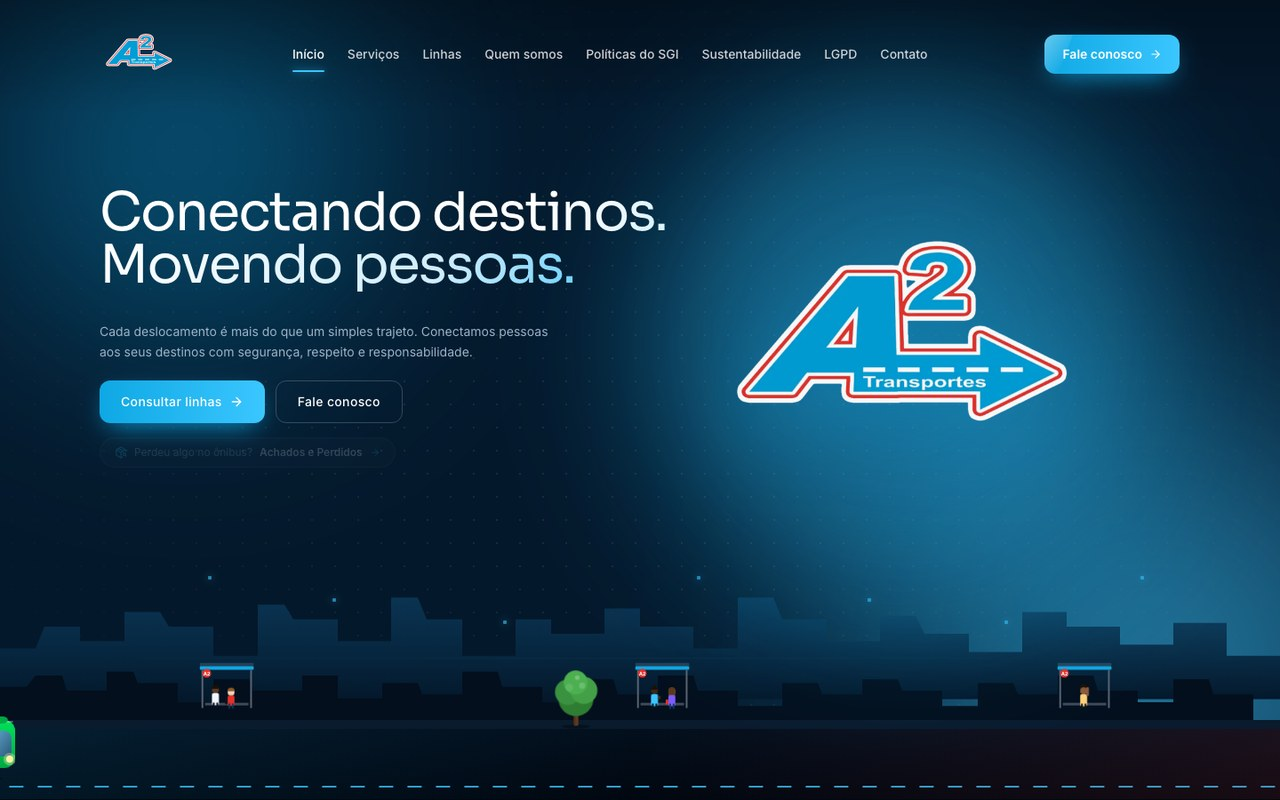
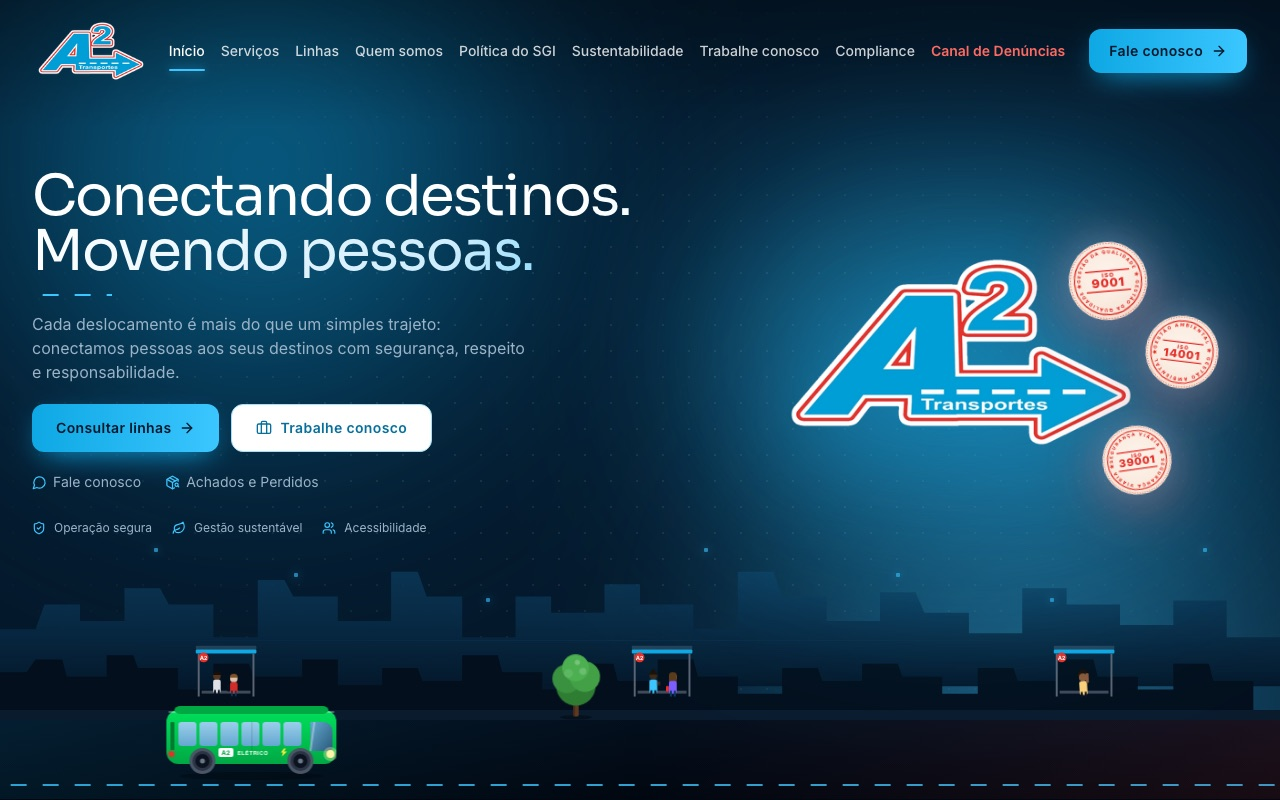
Portfolio: mockups novos da A2, JSR e Castro Alves; A2 aponta para a2transporte.com.br

diff --git a/index.html b/index.html
@@ -965,35 +965,6 @@
     [data-theme="light"] .proj-paper { box-shadow: 0 3px 14px rgba(0,0,0,.18); }
     [data-theme="light"] .proj-card:hover .proj-paper { box-shadow: 0 24px 44px rgba(0,0,0,.28); }
 
-    /* ANTES / DEPOIS — imagem antiga recortada por cima da nova, range invisível controla o corte */
-    .proj-card:hover .proj-paper.proj-ba { transform: none; }
-    .proj-ba img { position: absolute; inset: 0; -webkit-user-drag: none; user-select: none; }
-    .proj-ba .ba-antes { clip-path: inset(0 calc(100% - var(--pos)) 0 0); }
-    .ba-linha {
-      position: absolute; top: 0; bottom: 0; left: var(--pos); width: 2px;
-      transform: translateX(-1px); background: #fff; box-shadow: 0 0 10px rgba(0,0,0,.4);
-      pointer-events: none;
-    }
-    .ba-linha::after {
-      content: '‹ ›'; position: absolute; top: 50%; left: 50%; transform: translate(-50%, -50%);
-      width: 34px; height: 34px; border-radius: 50%; display: grid; place-items: center;
-      background: #fff; color: #18181B; font-size: 15px; font-weight: 700; letter-spacing: 1px;
-      box-shadow: 0 3px 12px rgba(0,0,0,.35);
-    }
-    .ba-lbl {
-      position: absolute; bottom: 10px; padding: 3px 9px; border-radius: 100px;
-      font-size: 10px; font-weight: 700; letter-spacing: .1em; text-transform: uppercase;
-      background: rgba(10,10,10,.68); color: #fff; pointer-events: none;
-    }
-    .ba-lbl-antes { left: 10px; }
-    .ba-lbl-depois { right: 10px; }
-    .ba-range {
-      position: absolute; inset: 0; width: 100%; height: 100%; margin: 0;
-      opacity: 0; pointer-events: none;
-    }
-    .proj-ba { cursor: ew-resize; touch-action: pan-y; }
-    .proj-ba:has(.ba-range:focus-visible) { outline: 2px solid var(--violet); outline-offset: 2px; }
-
     /* INFO — nome, tag, descrição dentro da pasta (sempre visível) */
     .proj-info { padding: 0 4px; margin-bottom: 16px; }
     .proj-tag {
@@ -1755,21 +1726,16 @@
       </div>
     </article>
 
-    <!-- Castro Alves — redesign com antes/depois arrastável -->
+    <!-- Castro Alves — redesign (em andamento) -->
     <article class="proj-card site">
       <span class="proj-folder-tab"><span class="num">09</span> · castro-alves</span>
-      <div class="proj-paper proj-ba" style="--pos:50%">
-        <img src="img/preview-castro-novo.jpg" alt="Site novo da Escola Castro Alves" loading="lazy"/>
-        <img class="ba-antes" src="img/preview-castro-antigo.jpg" alt="Site antigo da Escola Castro Alves" loading="lazy"/>
-        <span class="ba-lbl ba-lbl-antes">Antes</span>
-        <span class="ba-lbl ba-lbl-depois">Depois</span>
-        <span class="ba-linha" aria-hidden="true"></span>
-        <input class="ba-range" type="range" min="0" max="100" value="50" aria-label="Comparar site antigo e site novo"/>
+      <div class="proj-paper">
+        <img src="img/mockup-castro.jpg" alt="Escola Castro Alves, site novo no notebook, tablet e celular" loading="lazy" style="object-position:center"/>
       </div>
       <div class="proj-info">
         <span class="proj-tag tag-rose">Redesign · Em andamento</span>
         <h3 class="proj-name">Escola Castro Alves</h3>
-        <p class="proj-desc">Site novo para uma escola bilíngue do Infantil ao Médio, em Diadema. Arraste a imagem para comparar o antigo com o novo.</p>
+        <p class="proj-desc">Site novo para uma escola bilíngue do Infantil ao Médio, em Diadema.</p>
       </div>
       <div class="proj-open-wrap">
         <button class="proj-open-btn">Abrir ↗</button>
@@ -1826,7 +1792,7 @@
     <article class="proj-card site">
       <span class="proj-folder-tab"><span class="num">02</span> · jsr-ambiental</span>
       <div class="proj-paper">
-        <img src="img/preview-jsr.jpg" alt="JSR Soluções Ambientais, site institucional" loading="lazy"/>
+        <img src="img/mockup-jsr.jpg" alt="JSR Soluções Ambientais, site no notebook, tablet e celular" loading="lazy" style="object-position:center"/>
       </div>
       <div class="proj-info">
         <span class="proj-tag tag-coral">Site Institucional</span>
@@ -1852,7 +1818,7 @@
     <article class="proj-card site">
       <span class="proj-folder-tab"><span class="num">03</span> · a2-transportes</span>
       <div class="proj-paper">
-        <img src="img/preview-a2.jpg" alt="A2 Transportes, site institucional" loading="lazy"/>
+        <img src="img/mockup-a2.jpg" alt="A2 Transportes, site no notebook, tablet e celular" loading="lazy" style="object-position:center"/>
       </div>
       <div class="proj-info">
         <span class="proj-tag tag-lilac">Site Institucional</span>
@@ -1862,11 +1828,11 @@
       <div class="proj-open-wrap">
         <button class="proj-open-btn">Abrir ↗</button>
         <div class="proj-open-menu">
-          <button data-mode="desktop" data-url="https://a2-transportes.vercel.app" data-label="a2-transportes.vercel.app">
+          <button data-mode="desktop" data-url="https://a2transporte.com.br" data-label="a2transporte.com.br">
             <svg width="14" height="14" viewBox="0 0 24 24" fill="none" stroke="currentColor" stroke-width="2"><rect x="2" y="3" width="20" height="14" rx="2"/><path d="M8 21h8M12 17v4"/></svg>
             <span class="menu-label">Ver em Desktop</span>
           </button>
-          <button data-mode="mobile" data-url="https://a2-transportes.vercel.app" data-label="a2-transportes.vercel.app">
+          <button data-mode="mobile" data-url="https://a2transporte.com.br" data-label="a2transporte.com.br">
             <svg width="14" height="14" viewBox="0 0 24 24" fill="none" stroke="currentColor" stroke-width="2"><rect x="5" y="2" width="14" height="20" rx="2"/></svg>
             <span class="menu-label">Ver em Mobile</span>
           </button>
@@ -3548,6 +3514,9 @@ const __isMobile     = matchMedia('(max-width: 768px)').matches;
   });
 })();
 
+// sites que não deixam abrir dentro de iframe (X-Frame-Options): abrem direto em nova aba, sem moldura
+const NOFRAME = new Set(['https://a2transporte.com.br']);
+
 // ═══════════ Folder Open — popover Desktop/Mobile dentro do card ═══════════
 // Click em "Abrir ↗" → mostra popover com 2 opções (Desktop / Mobile).
 // Click em uma opção → fecha popover e dispara o modal device-preview existente
@@ -3573,7 +3542,7 @@ const __isMobile     = matchMedia('(max-width: 768px)').matches;
       const touch = window.matchMedia('(max-width: 820px)').matches || window.matchMedia('(pointer: coarse)').matches;
       // Sistemas (apps pesados, com tour) e QUALQUER aparelho de toque (celular/tablet):
       // abrem o app direto em nova aba — tela cheia, nativo, sem moldura travando nem tour cobrindo.
-      if (isSys || touch) {
+      if (isSys || touch || NOFRAME.has(firstUrl)) {
         if (firstUrl) window.open(firstUrl, '_blank', 'noopener');
         return;
       }
@@ -3615,7 +3584,8 @@ const __isMobile     = matchMedia('(max-width: 768px)').matches;
     'https://salaoexplosion.com.br': 'salao',
     'https://salaoexplosion.com.br/landing/': 'landing',
     'https://jsrsolucoesambientais.com.br': 'jsr',
-    'https://a2-transportes.vercel.app': 'a2',
+    'https://a2transporte.com.br': 'a2',
+    'https://castro-alves-site.vercel.app': 'castro',
     'https://nutriodemo.vercel.app': 'nutrio',
     'https://paloma-nutri-demo.vercel.app': 'palomanutri',
     'https://tecbas-site-palomavazq-9520s-projects.vercel.app': 'tecbas',
@@ -3711,6 +3681,7 @@ const __isMobile     = matchMedia('(max-width: 768px)').matches;
       const label = btn.dataset.label || url;
       const local = btn.dataset.local;
       if (mode === 'local') { window.open(local, '_blank'); return; }
+      if (NOFRAME.has(url)) { window.open(url, '_blank', 'noopener'); return; }
       // quem já está no celular vê o site de verdade, direto — sem moldura dentro da tela
       if (window.matchMedia('(max-width: 820px)').matches) { window.open(url, '_blank', 'noopener'); return; }
       // Desktop: SISTEMA abre o app de verdade em nova aba; SITE mostra a moldura de navegador
@@ -3761,21 +3732,6 @@ const __isMobile     = matchMedia('(max-width: 768px)').matches;
   });
   ['pointerup', 'pointercancel'].forEach(ev =>
     st.addEventListener(ev, () => { dragging = false; st.classList.remove('drag'); }));
-})();
-
-// ═══════════ Antes / depois — arrastar no card (mouse e toque) ═══════════
-// O range fica só para teclado; o arrasto é por pointer porque no iOS o range só responde no thumb.
-;(function initAntesDepois() {
-  document.querySelectorAll('.proj-ba').forEach(box => {
-    const range = box.querySelector('.ba-range');
-    const set = v => { v = Math.max(0, Math.min(100, v)); box.style.setProperty('--pos', v + '%'); range.value = v; };
-    const fromX = x => { const r = box.getBoundingClientRect(); set((x - r.left) / r.width * 100); };
-    let dragging = false;
-    box.addEventListener('pointerdown', e => { e.preventDefault(); dragging = true; box.setPointerCapture(e.pointerId); fromX(e.clientX); });
-    box.addEventListener('pointermove', e => { if (dragging) fromX(e.clientX); });
-    ['pointerup', 'pointercancel'].forEach(ev => box.addEventListener(ev, () => { dragging = false; }));
-    range.addEventListener('input', () => set(+range.value));
-  });
 })();
 
 // ═══════════ Ondas do CTA final (wavy background em canvas puro) ═══════════
@@ -3901,10 +3857,10 @@ const __isMobile     = matchMedia('(max-width: 768px)').matches;
       title: 'Sites',
       sub: 'Sites com a cara da marca, rápidos e fáceis de usar em qualquer tela.',
       items: [
-        { name: 'Escola Castro Alves', img: 'img/preview-castro-novo.jpg', desc: 'Site novo para escola bilíngue do Infantil ao Médio em Diadema, SP. Em andamento.', url: 'https://castro-alves-site.vercel.app' },
+        { name: 'Escola Castro Alves', img: 'img/mockup-castro.jpg', desc: 'Site novo para escola bilíngue do Infantil ao Médio em Diadema, SP. Em andamento.', url: 'https://castro-alves-site.vercel.app' },
         { name: 'Salão Explosion', img: 'img/preview-salao.jpg', desc: 'Site imersivo com animações para salão de beleza em Diadema, SP.', url: 'https://salaoexplosion.com.br' },
-        { name: 'JSR Ambiental', img: 'img/preview-jsr.jpg', desc: 'Site institucional para uma engenheira ambiental.', url: 'https://jsrsolucoesambientais.com.br' },
-        { name: 'A2 Transportes', img: 'img/preview-a2.jpg', desc: 'Site para empresa de transporte de passageiros.', url: 'https://a2-transportes.vercel.app' },
+        { name: 'JSR Ambiental', img: 'img/mockup-jsr.jpg', desc: 'Site institucional para uma engenheira ambiental.', url: 'https://jsrsolucoesambientais.com.br' },
+        { name: 'A2 Transportes', img: 'img/mockup-a2.jpg', desc: 'Site para empresa de transporte de passageiros.', url: 'https://a2transporte.com.br' },
         { name: 'Tecbas', img: 'img/preview-tecbas.jpg', desc: 'Site para empresa de manutenção de máquinas CNC.', url: 'https://tecbas-site-palomavazq-9520s-projects.vercel.app' },
         { name: 'Nanas Crochets', img: 'img/dt-nanas.jpg', desc: 'Loja de peças de crochê feitas à mão, com catálogo e pedido sob encomenda.', url: 'https://nanas-crochet.vercel.app' },
       ],
